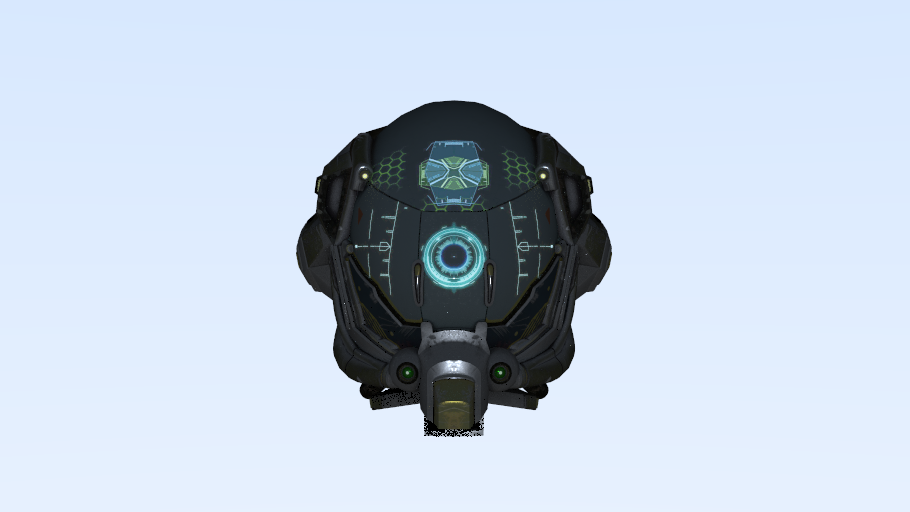
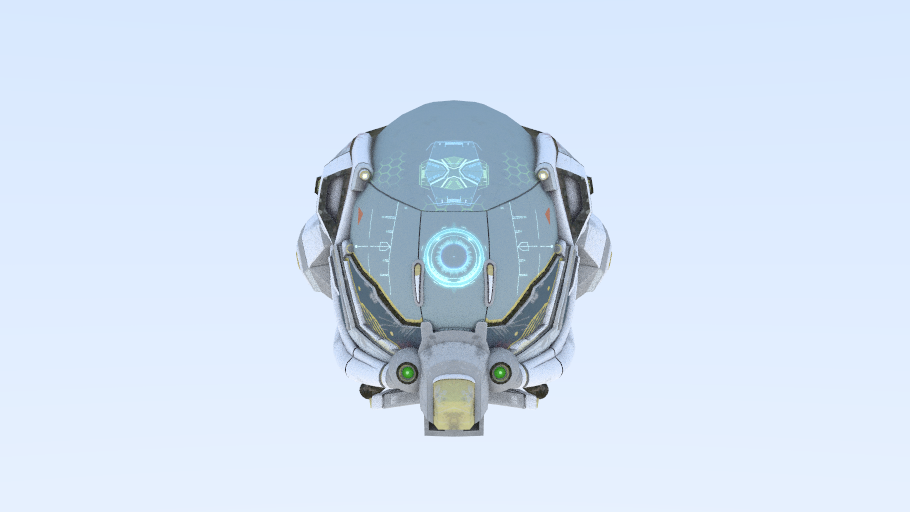
Alpha blending support

Changed region(s): [[0.3077, 0.1875, 0.6769, 0.875]]

diff --git a/src/engine/material/pbr_metallic_roughness.rs b/src/engine/material/pbr_metallic_roughness.rs
@@ -2,10 +2,8 @@ use crate::engine::material::*;
 
 use crate::engine::geometry::traceable::*;
 use crate::engine::math::ray::*;
-use crate::engine::math::utils::*;
 use crate::engine::texture::texture2d::*;
 use crate::engine::sampler::sampler::*;
-use crate::engine::onb::*;
 use super::diffuse::*;
 
 use glam::{Vec2, Vec3A, Vec4};
@@ -43,14 +41,7 @@ impl PBRMetallicRoughnessMaterial {
         return F0 + (1.0 - F0) * (1.0 - cos_theta).powf(5.0);
     }
 
-    fn CookTorrance_GGX(&self, normal: Vec3A, light: Vec3A, view: Vec3A, hit_result : &HitResult) -> Vec4 {
-        let mut albedo = Vec4::ONE;
-        albedo *= self.base_color_factor;
-        albedo = albedo * self.base_color_texture.sample(
-            &self.base_color_texture_sampler, 
-            self.base_color_texture.texture.get_uv_by_index(&hit_result.uvs)
-        );
-        
+    fn CookTorrance_GGX(&self, normal: Vec3A, light: Vec3A, view: Vec3A, albedo: Vec3A, hit_result : &HitResult) -> Vec4 {       
         let metallic_roughness = self.metalic_roughness_texture.sample(
             &self.metalic_roughness_texture_sampler, 
             self.metalic_roughness_texture.texture.get_uv_by_index(&hit_result.uvs)
@@ -110,33 +101,31 @@ pub fn reflect(eye: Vec3A, normal: Vec3A) -> Vec3A {
 }
 
 impl Material for PBRMetallicRoughnessMaterial {
-    fn scatter(&self, ray: &Ray, hit_result: &HitResult) -> (Vec3A, Option<Vec3A>, f32) {
-        let metallic_roughness = self.metalic_roughness_texture.sample(
-            &self.metalic_roughness_texture_sampler, 
-            self.metalic_roughness_texture.texture.get_uv_by_index(&hit_result.uvs)
-        );
+    fn scatter(&self, ray: &Ray, hit_result : &HitResult) -> (Vec3A, Option<Vec3A>, f32, f32) {
+        let mut albedo = Vec4::ONE;
+        albedo *= self.base_color_factor;
+        albedo = albedo * self.base_color_texture.sample(
+            &self.base_color_texture_sampler, 
+            self.base_color_texture.texture.get_uv_by_index(&hit_result.uvs)
+        );        
 
-        let (_, scattering_direction, pdf) = self.diffuse.scatter(&ray, &hit_result);
+        let (_, mut scattering_direction, mut scattered_pdf, mut pdf) = self.diffuse.scatter(&ray, &hit_result);
 
         let light_vector = Vec3A::new(0.0, 0.0, 1.0);
 
-        let mut sample = self.CookTorrance_GGX(hit_result.normal, light_vector, -ray.direction, hit_result);        
+        let mut sample = self.CookTorrance_GGX(hit_result.normal, light_vector, -ray.direction, Vec3A::from(albedo),  hit_result);        
 
-        //sample = Vec4::ONE;
-        sample *= self.base_color_factor;
-        sample = sample * self.base_color_texture.sample(
-            &self.base_color_texture_sampler, 
-            self.base_color_texture.texture.get_uv_by_index(&hit_result.uvs)
-        );
+        sample = albedo;
 
-        return (Vec3A::from(sample), scattering_direction, pdf);
+        if albedo.w < 0.99 {
+            sample = Vec4::ONE;
+            scattering_direction = Some(ray.direction);
+        }
+
+        return (Vec3A::from(sample), scattering_direction, scattered_pdf, pdf);
     }
 
     fn emit(&self, ray: &Ray, hit_result : &HitResult) -> Vec3A {
         Vec3A::ZERO
-    }
-
-    fn scattering_pdf(&self, ray: &Ray, hit_result : &HitResult, scattered_direction: Vec3A) -> f32 {
-        return self.diffuse.scattering_pdf(&ray, &hit_result, scattered_direction);
     }
 }

diff --git a/src/engine/material/diffuse.rs b/src/engine/material/diffuse.rs
@@ -10,21 +10,20 @@ pub struct DiffuseMaterial {
 }
 
 impl Material for DiffuseMaterial {
-    fn scatter(&self, ray: &Ray, hit_result : &HitResult) -> (Vec3A, Option<Vec3A>, f32) {
+    fn scatter(&self, ray: &Ray, hit_result : &HitResult) -> (Vec3A, Option<Vec3A>, f32, f32) {
         let onb = ONB::build_from_z(hit_result.normal);
-        let scattering_direction = onb.get_position(random_cosine_direction());
-        //let scattering_direction = onb.get_position(random_in_hemisphere(hit_result.normal));
-        //let scattering_direction = random_in_hemisphere(hit_result.normal);
+        let scattering_direction = onb.get_position(random_cosine_direction()).normalize();
         let pdf = scattering_direction.dot(onb.z) / std::f32::consts::PI;
-        (Vec3A::ONE, Some(scattering_direction.normalize()), pdf)
+
+        // Scattered PDF
+        let cosine = hit_result.normal.dot(scattering_direction);
+        let scattered_pdf =  if cosine < 0.0 {0.0} else {cosine / std::f32::consts::PI};
+        //
+
+        (Vec3A::ONE, Some(scattering_direction), scattered_pdf, pdf)
     }
 
     fn emit(&self, ray: &Ray, hit_result : &HitResult) -> Vec3A {
         Vec3A::ZERO
-    }
-
-    fn scattering_pdf(&self, ray: &Ray, hit_result : &HitResult, scattered_direction: Vec3A) -> f32 {
-        let cosine = hit_result.normal.dot(scattered_direction);
-        return if cosine < 0.0 {0.0} else {cosine / std::f32::consts::PI};
     }
 }

diff --git a/src/engine/renderer.rs b/src/engine/renderer.rs
@@ -46,15 +46,14 @@ impl Renderer {
 
             let hit_result = hit_result_option.unwrap();
 
-            let (mut sample, scatter_option, pdf) = hit_result.material.scatter(&ray, &hit_result);
+            let (mut sample, scatter_option, scattered_pdf, pdf) = hit_result.material.scatter(&ray, &hit_result);
             let emmission = hit_result.material.emit(&ray, &hit_result);
 
             if scatter_option.is_some() {
                 let scatter = scatter_option.unwrap();
-                ray = Ray{origin : hit_result.position, direction : scatter.normalize()};
+                ray = Ray{origin : hit_result.position, direction : scatter};
 
-                let scattering_pdf = hit_result.material.scattering_pdf(&ray, &hit_result, scatter.normalize());
-                sample = sample * scattering_pdf / pdf;
+                sample = sample * scattered_pdf / pdf;
             } else {
                 return average_sample * emmission;
             }
@@ -63,6 +62,7 @@ impl Renderer {
 
         //sample
         Vec3A::ZERO
+        //average_sample
     }
 
     pub fn render(&self, camera: Arc<PerspectiveCamera>, render_context : Arc<RenderContext>) {

diff --git a/src/engine/material/pbr.rs b/src/engine/material/pbr.rs
@@ -43,10 +43,10 @@ pub fn reflect(eye: Vec3A, normal: Vec3A) -> Vec3A {
 }
 
 impl Material for PBRMaterial {
-    fn scatter(&self, ray: &Ray, hit_result: &HitResult) -> (Vec3A, Option<Vec3A>, f32) {
-        let (sample, scatter_direction, pdf) = self.pbr_metallic_roughness.scatter(ray, hit_result);
+    fn scatter(&self, ray: &Ray, hit_result : &HitResult) -> (Vec3A, Option<Vec3A>, f32, f32) {
+        let (sample, scatter_direction, scattered_pdf, pdf) = self.pbr_metallic_roughness.scatter(ray, hit_result);
 
-        (sample, scatter_direction, pdf)
+        (sample, scatter_direction, scattered_pdf, pdf)
     }
 
     fn emit(&self, ray: &Ray, hit_result : &HitResult) -> Vec3A {
@@ -54,9 +54,5 @@ impl Material for PBRMaterial {
             &self.emissive_texture_sampler, 
             self.emissive_texture.texture.get_uv_by_index(&hit_result.uvs)
         ))
-    }
-
-    fn scattering_pdf(&self, ray: &Ray, hit_result : &HitResult, scattered_direction: Vec3A) -> f32 {
-        return self.pbr_metallic_roughness.scattering_pdf(&ray, &hit_result, scattered_direction);
     }
 }

diff --git a/src/engine/material/uv.rs b/src/engine/material/uv.rs
@@ -11,18 +11,14 @@ pub struct UVMaterial {
 }
 
 impl Material for UVMaterial {
-    fn scatter(&self, ray: &Ray, hit_result : &HitResult) -> (Vec3A, Option<Vec3A>, f32) {
-        let (_, scattering_direction, pdf) = self.diffuse.scatter(&ray, &hit_result);
+    fn scatter(&self, ray: &Ray, hit_result : &HitResult) -> (Vec3A, Option<Vec3A>, f32, f32) {
+        let (_, scattering_direction, scattered_pdf, pdf) = self.diffuse.scatter(&ray, &hit_result);
 
         let sample = Vec3A::new(hit_result.uvs[0].x, hit_result.uvs[0].y, 1.0 - hit_result.uvs[0].x - hit_result.uvs[0].y);
-        (sample, scattering_direction, pdf)
+        (sample, scattering_direction, scattered_pdf, pdf)
     }
 
     fn emit(&self, ray: &Ray, hit_result : &HitResult) -> Vec3A {
         Vec3A::ZERO
-    }
-
-    fn scattering_pdf(&self, ray: &Ray, hit_result : &HitResult, scattered_direction: Vec3A) -> f32 {
-        return self.diffuse.scattering_pdf(&ray, &hit_result, scattered_direction);
     }
 }

diff --git a/src/engine/material/normal.rs b/src/engine/material/normal.rs
@@ -12,17 +12,13 @@ pub struct NormalMaterial {
 }
 
 impl Material for NormalMaterial {
-    fn scatter(&self, ray: &Ray, hit_result : &HitResult) -> (Vec3A, Option<Vec3A>, f32) {
-        let (_, scattering_direction, pdf) = self.diffuse.scatter(&ray, &hit_result);
+    fn scatter(&self, ray: &Ray, hit_result : &HitResult) -> (Vec3A, Option<Vec3A>, f32, f32) {
+        let (_, scattering_direction, scattered_pdf, pdf) = self.diffuse.scatter(&ray, &hit_result);
         let sample =  0.5 * (hit_result.normal + Vec3A::ONE);
-        (sample, scattering_direction, pdf)
+        (sample, scattering_direction, scattered_pdf, pdf)
     }
 
     fn emit(&self, ray: &Ray, hit_result : &HitResult) -> Vec3A {
         Vec3A::ZERO
-    }
-
-    fn scattering_pdf(&self, ray: &Ray, hit_result : &HitResult, scattered_direction: Vec3A) -> f32 {
-        return self.diffuse.scattering_pdf(&ray, &hit_result, scattered_direction);
     }
 }

diff --git a/src/engine/material/refraction.rs b/src/engine/material/refraction.rs
@@ -38,19 +38,14 @@ fn refract(ray: &Ray, hit_result: &HitResult, ior: f32) -> Vec3A {
 }
 
 impl Material for RefractionMaterial {
-    fn scatter(&self, ray: &Ray, hit_result: &HitResult) -> (Vec3A, Option<Vec3A>, f32) {
+    fn scatter(&self, ray: &Ray, hit_result : &HitResult) -> (Vec3A, Option<Vec3A>, f32, f32) {
         let ior = ior(self.refraction_type, hit_result.front_face);
 
         let direction = refract(ray, hit_result, ior);
-        (Vec3A::ONE, Some(direction), 1.0)
+        (Vec3A::ONE, Some(direction.normalize()), 1.0, 1.0)
     }
 
     fn emit(&self, ray: &Ray, hit_result : &HitResult) -> Vec3A {
         Vec3A::ZERO
-    }
-
-    fn scattering_pdf(&self, ray: &Ray, hit_result : &HitResult, scattered_direction: Vec3A) -> f32 {
-        let cosine = hit_result.normal.dot(scattered_direction);
-        return if cosine < 0.0 {0.0} else {cosine / std::f32::consts::PI};
     }
 }

diff --git a/src/engine/material/metal.rs b/src/engine/material/metal.rs
@@ -14,17 +14,12 @@ pub fn reflect(eye: Vec3A, normal: Vec3A) -> Vec3A {
 }
 
 impl Material for MetalMaterial {
-    fn scatter(&self, ray: &Ray, hit_result: &HitResult) -> (Vec3A, Option<Vec3A>, f32) {
+    fn scatter(&self, ray: &Ray, hit_result : &HitResult) -> (Vec3A, Option<Vec3A>, f32, f32) {
         let direction = reflect(ray.direction, hit_result.normal) + (1.0 - self.metalness) * random_in_unit_sphere();
-        (Vec3A::ONE, Some(direction), 1.0)
+        (Vec3A::ONE, Some(direction.normalize()), 1.0, 1.0)
     }
 
     fn emit(&self, ray: &Ray, hit_result : &HitResult) -> Vec3A {
         Vec3A::ZERO
-    }
-
-    fn scattering_pdf(&self, ray: &Ray, hit_result : &HitResult, scattered_direction: Vec3A) -> f32 {
-        let cosine = hit_result.normal.dot(scattered_direction);
-        return if cosine < 0.0 {0.0} else {cosine / std::f32::consts::PI};
     }
 }

diff --git a/src/engine/scene.rs b/src/engine/scene.rs
@@ -458,7 +458,7 @@ impl Scene {
             DiffuseLightMaterial{color: Vec3A::new(2.0, 2.0, 2.0)}
         );
 
-        //self.geometry.push(Arc::new(Sphere{material: diffuse_light_material.clone(), radius : 0.7, position : Vec3A::new(-3.0, 1.0, 0.0)}));
+        self.geometry.push(Arc::new(Sphere{material: diffuse_light_material.clone(), radius : 0.7, position : Vec3A::new(-6.5, 1.0, 0.0)}));
         //self.geometry.push(Arc::new(Sphere{material: diffuse_material.clone(), radius : 100.0, position : Vec3A::new(0.0, -101.0, 1.0)}));
         //self.geometry.push(Arc::new(Sphere{material: metal_material.clone(), radius : 0.5, position : Vec3A::new(1.0, 0.0, 1.2)}));
         //self.geometry.push(Arc::new(Sphere{material: normal_material.clone(), radius : 0.5, position : Vec3A::new(-1.0, 0.0, 1.2)}));

diff --git a/src/engine/material/diffuse_light.rs b/src/engine/material/diffuse_light.rs
@@ -9,16 +9,11 @@ pub struct DiffuseLightMaterial {
 }
 
 impl Material for DiffuseLightMaterial {
-    fn scatter(&self, ray: &Ray, hit_result : &HitResult) -> (Vec3A, Option<Vec3A>, f32) {
-        (Vec3A::ONE, None, 1.0)
+    fn scatter(&self, ray: &Ray, hit_result : &HitResult) -> (Vec3A, Option<Vec3A>, f32, f32) {
+        (Vec3A::ONE, None, 1.0, 1.0)
     }
 
     fn emit(&self, ray: &Ray, hit_result : &HitResult) -> Vec3A {
         self.color
-    }
-
-    fn scattering_pdf(&self, ray: &Ray, hit_result : &HitResult, scattered_direction: Vec3A) -> f32 {
-        let cosine = hit_result.normal.dot(scattered_direction);
-        return if cosine < 0.0 {0.0} else {cosine / std::f32::consts::PI};
     }
 }

diff --git a/src/engine/texture/texture2d.rs b/src/engine/texture/texture2d.rs
@@ -32,9 +32,8 @@ impl Texture2D {
 
         let color = self.texture.raw_texture.get_pixel(x as u32, y as u32);
 
-        let mut final_color = Vec4::new(color[0] as f32, color[1] as f32, color[2] as f32, color[3] as f32);
-        final_color /= 256.0;
+        let final_color = Vec4::new(color[0] as f32, color[1] as f32, color[2] as f32, color[3] as f32);
 
-        final_color
+        final_color / (256.0 - 1.0)
     }
 }

diff --git a/src/engine/material/mod.rs b/src/engine/material/mod.rs
@@ -17,7 +17,7 @@ pub trait Material {
     fn scatter(&self, ray: &Ray, hit_result : &HitResult) -> (
         Vec3A /* Attenuation */, 
         Option<Vec3A> /* Scatter */,
+        f32 /* Scattered PDF */,
         f32 /* Direction PDF */);
     fn emit(&self, ray: &Ray, hit_result : &HitResult) -> Vec3A;
-    fn scattering_pdf(&self, ray: &Ray, hit_result : &HitResult, scattered_direction: Vec3A) -> f32;
 }
